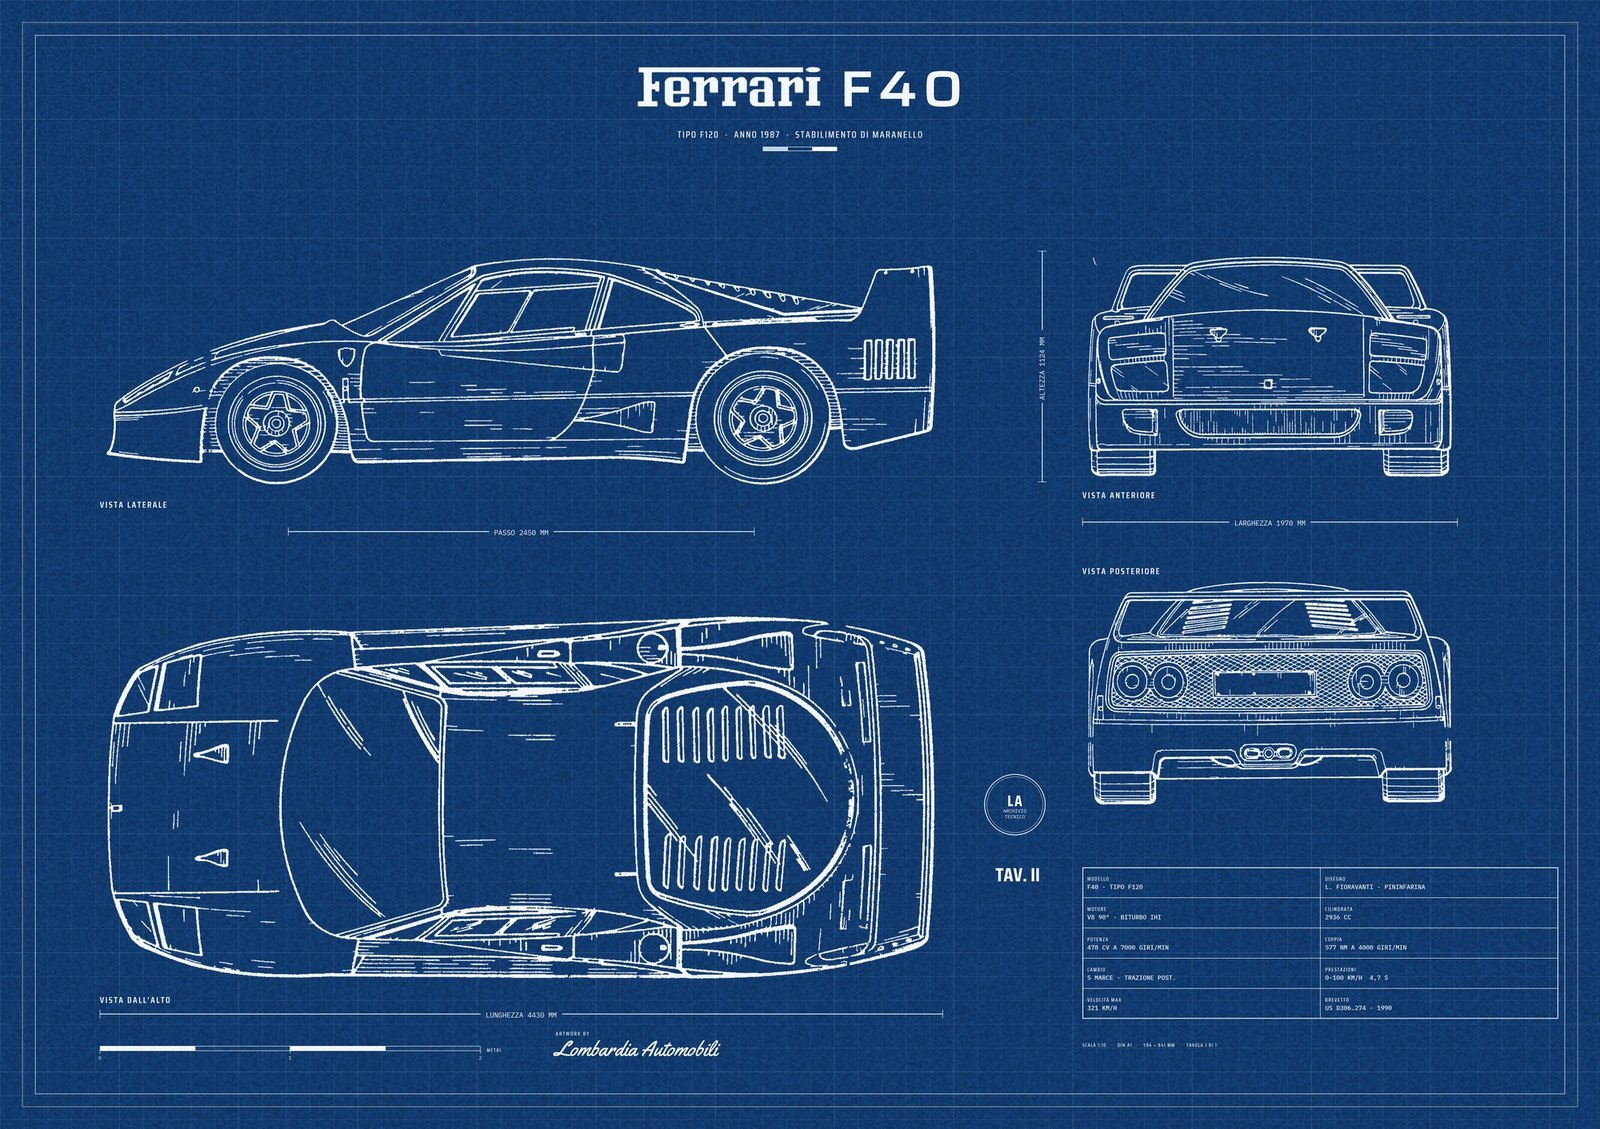
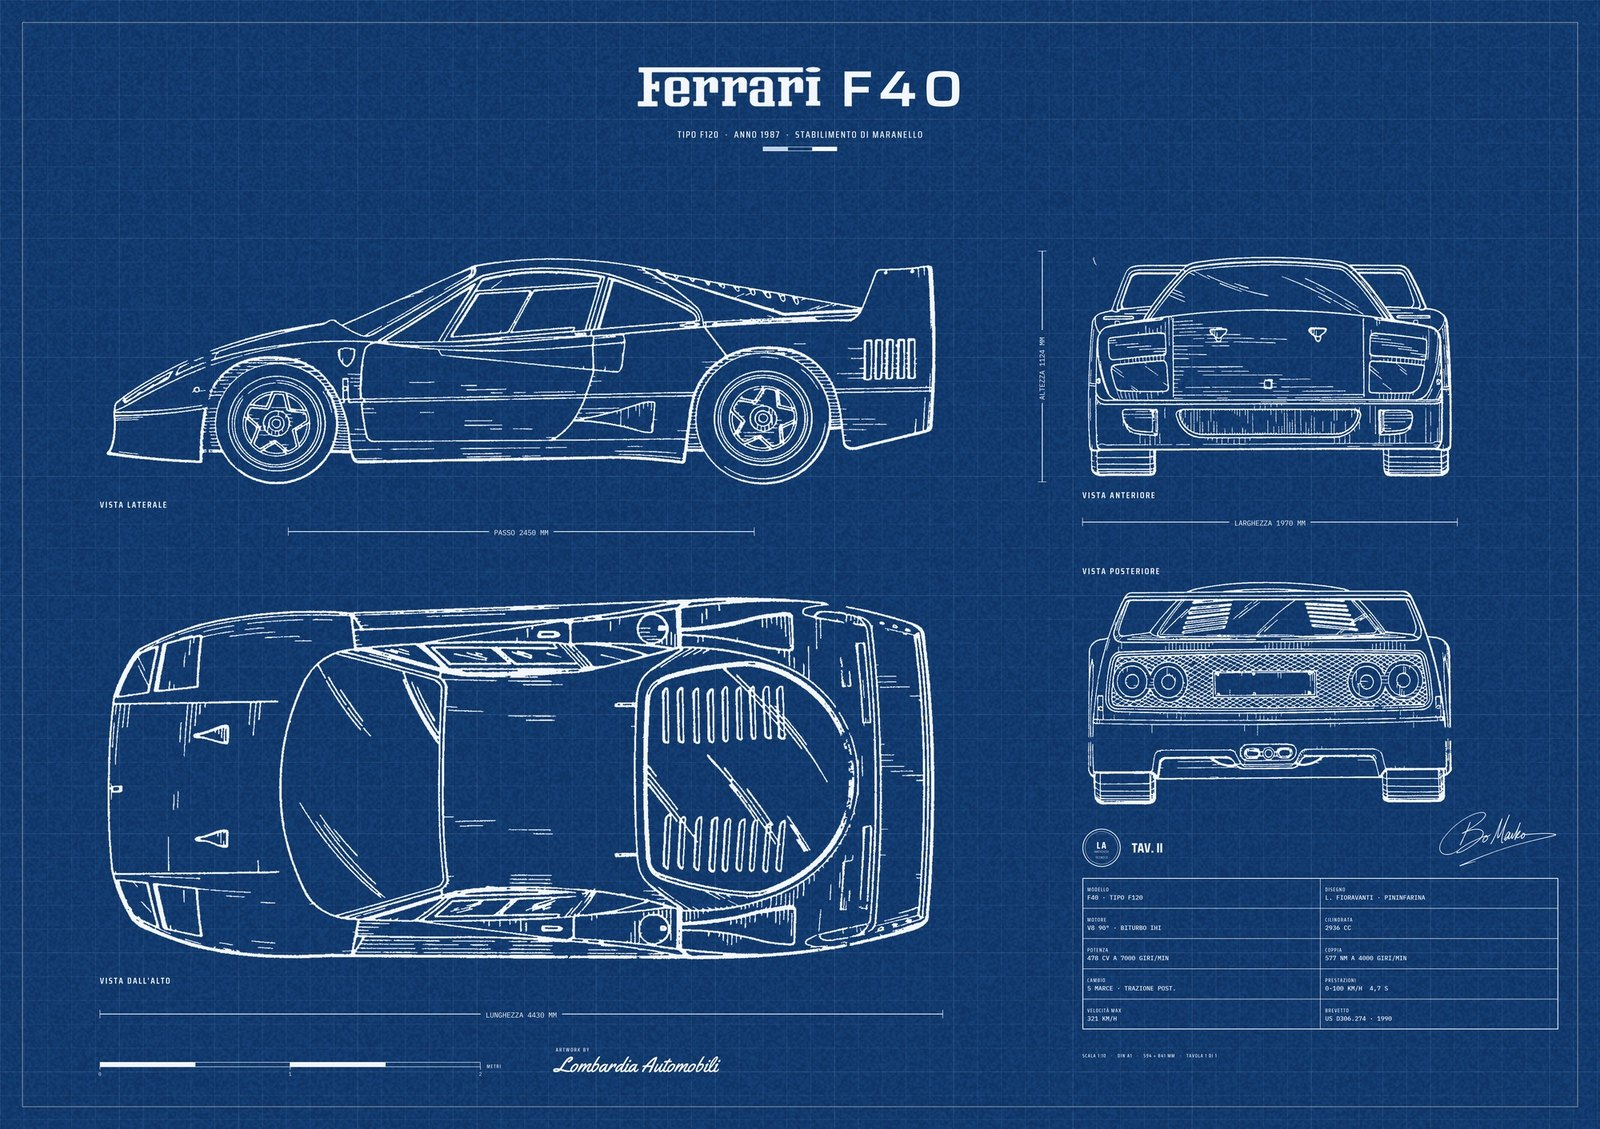
Publish the lot board

diff --git a/posters/f40-tecnico.html b/posters/f40-tecnico.html
@@ -23,7 +23,7 @@ pre.copy{white-space:pre-wrap;font:13px/1.5 "IBM Plex Mono",monospace;border:1px
 <p class="deck"><span class="chip wait">sheet awaiting approval</span> &nbsp; <span class="next">next: run sheet.py, then the founder approves the poster</span></p>
 <div class="headrule"></div>
 <h2>The sheet</h2>
-<figure class="grid" style="grid-template-columns:1fr"><a href="../img/board/f40-tecnico-sheet.jpg?v=1788487827"><img src="../img/board/f40-tecnico-sheet.jpg?v=1788487827" alt="sheet"></a><figcaption><b>sheets/tecnico/f40.jpg</b> · the poster the founder approved; only the car is generated, everything else is drawn</figcaption></figure>
+<figure class="grid" style="grid-template-columns:1fr"><a href="../img/board/f40-tecnico-sheet.jpg?v=1788488465"><img src="../img/board/f40-tecnico-sheet.jpg?v=1788488465" alt="sheet"></a><figcaption><b>sheets/tecnico/f40.jpg</b> · the poster the founder approved; only the car is generated, everything else is drawn</figcaption></figure>
 <h2>The lot set · 0 approved</h2>
 <p class="next">Order for Catawiki is the founder's call; six go up, the first is the cover. Every shot here is model-rendered from the true sheet or is the true file itself; nothing is pasted onto a photograph (rule 1), the noir wall being his named exception.</p>
 <div class="grid"></div>
@@ -99,6 +99,6 @@ Shipped with care using rigid packaging.</pre><div class="md"><p>Object type <st
 </ul>
 <p>Generated lot title: <code>Lombardia Automobili - Ferrari - F40 - 1980s</code>. The marque must NOT
 appear in Poster title or it doubles.</p></div>
-<h2>History</h2><ul class="kv"><li><span class="folio">2026-09-04</span> sheet built, waiting for the founder: full-bleed rebuild of the blue F40: ground to the edge, outer rule where it was (founder&#x27;s ask 2026-09-04)</li></ul>
+<h2>History</h2><ul class="kv"><li><span class="folio">2026-09-04</span> sheet built, waiting for the founder: full-bleed rebuild of the blue F40: ground to the edge, outer rule where it was (founder&#x27;s ask 2026-09-04)</li><li><span class="folio">2026-09-04</span> sheet built, waiting for the founder: rebuilt by blue.py to his five corrections: one line, block down (west gap = south gap = 480 px), LA + TAV row above the block with the signature, imprint and scale bar lower, plan view up 120 px</li></ul>
 
 </div></div></div></body></html>
